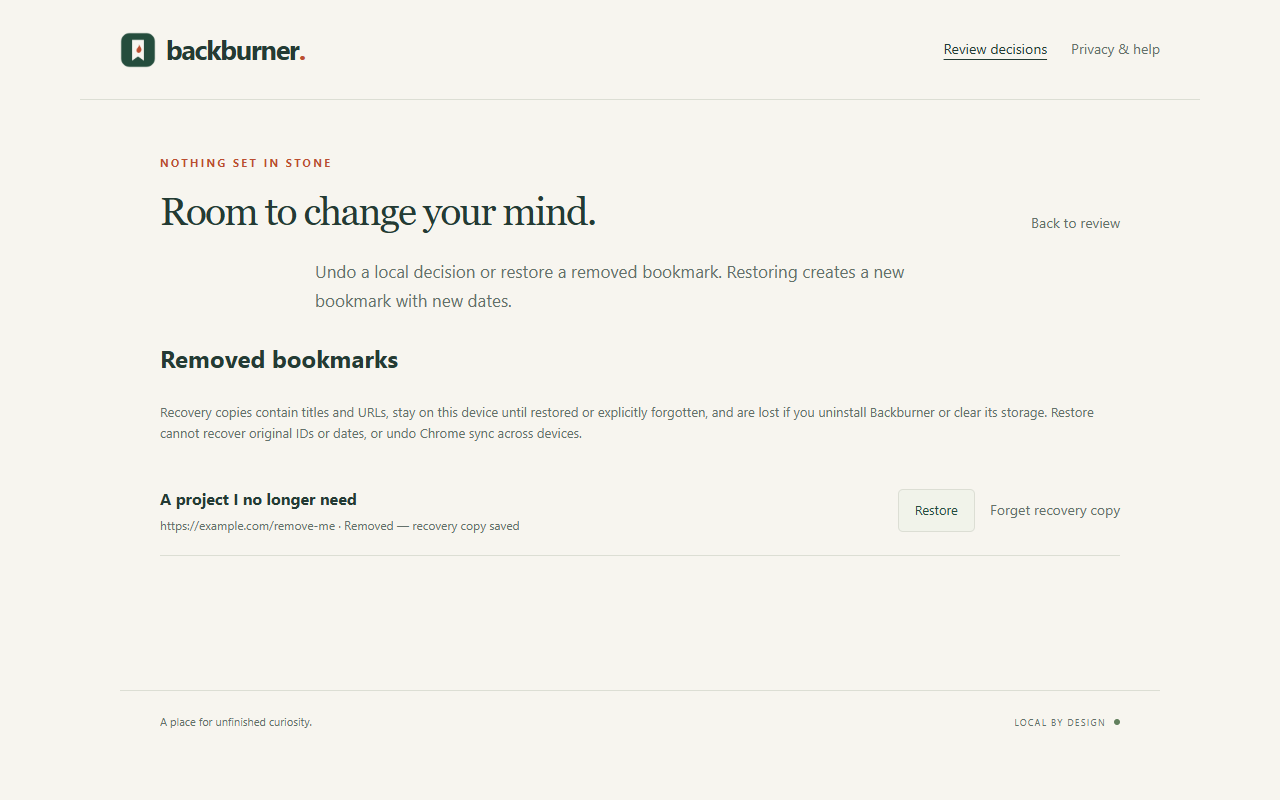
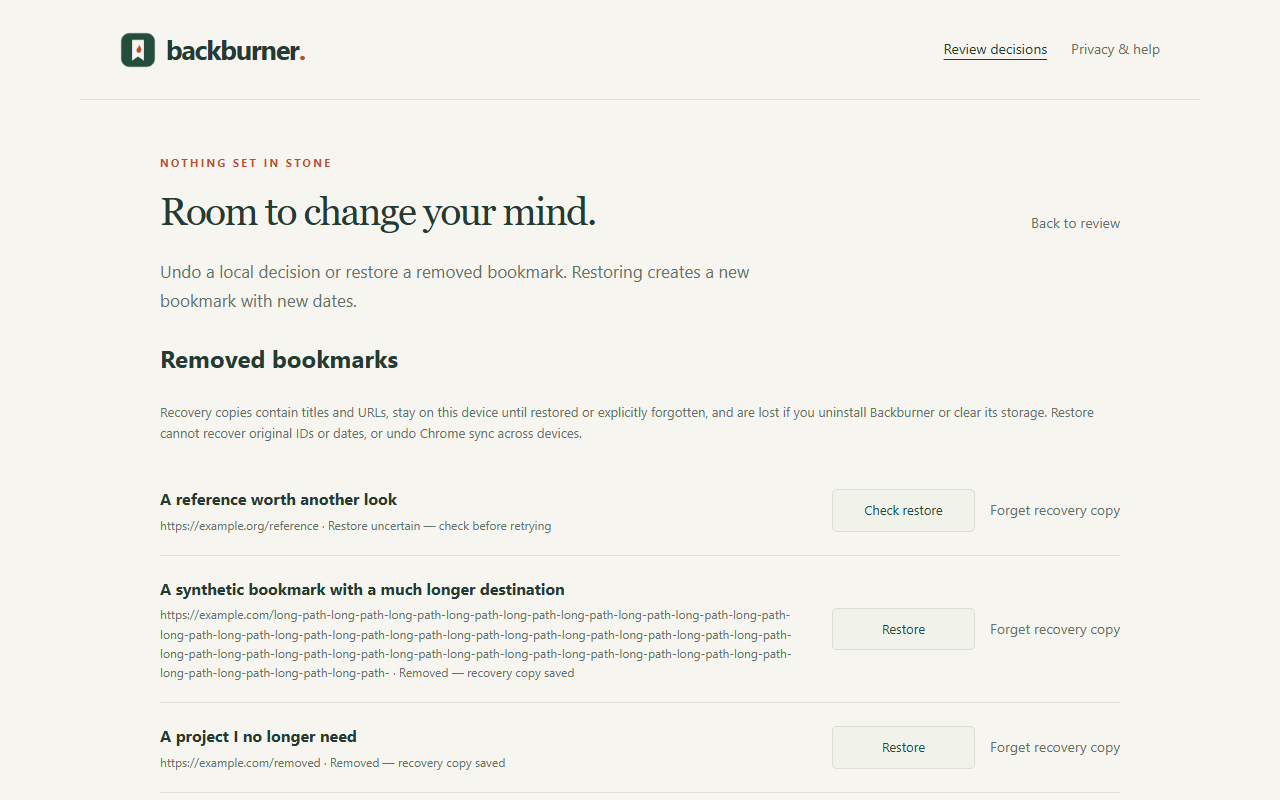
Align decisions copy and recovery actions
Keep recovery buttons in consistent columns and together below details on narrow screens. Align the introduction with the heading; preserve all action semantics.

diff --git a/review.css b/review.css
@@ -6,4 +6,6 @@
 .folder-context{display:flex;gap:6px;margin-top:10px;font-size:12px;color:var(--muted)}.folder-context>span{flex-shrink:0}.folder-path{display:flex;min-width:0;margin:0}.folder-path span{unicode-bidi:plaintext}.folder-path #folder-ancestors{min-width:1.5em;overflow:hidden;text-overflow:ellipsis;white-space:nowrap}.folder-path #folder-leaf{flex-shrink:0;max-width:calc(100% - 1.5em);overflow-wrap:anywhere;white-space:pre-wrap}.folder-path #folder-ancestors[hidden]+#folder-leaf{max-width:100%}
 .reminder-handoff,.reminder-settings{border:1px solid var(--line);border-radius:8px;padding:20px;margin-bottom:28px;overflow-wrap:anywhere}.reminder-handoff h2{margin:0 0 10px}.reminder-handoff button,.reminder-settings button{margin:8px 16px 8px 0;white-space:normal}.reminder-handoff p,.reminder-settings p{font-size:13px}
 
-dialog{max-width:560px;width:calc(100% - 40px);border:1px solid var(--line);border-radius:12px;background:var(--paper);color:var(--ink);padding:28px}dialog::backdrop{background:#10251c88}#confirm-detail{white-space:pre-wrap;overflow-wrap:anywhere;font-size:14px}.dialog-actions{display:flex;justify-content:flex-end;gap:12px;margin-top:24px}.dialog-actions button{padding:10px 18px;border:1px solid var(--line);border-radius:5px;background:#fff;color:var(--ink)}#confirm-yes{background:var(--green);color:white}#restore-folder{display:block;width:100%;padding:10px;margin-top:8px}.recovery-actions{display:flex;gap:15px;flex-wrap:wrap}.decision-row h3{margin:0 0 4px;font-size:16px}.summary-counts{flex-wrap:wrap}@media(max-width:650px){.recovery-actions{flex-direction:column}.decision-row{align-items:flex-start}}
+dialog{max-width:560px;width:calc(100% - 40px);border:1px solid var(--line);border-radius:12px;background:var(--paper);color:var(--ink);padding:28px}dialog::backdrop{background:#10251c88}#confirm-detail{white-space:pre-wrap;overflow-wrap:anywhere;font-size:14px}.dialog-actions{display:flex;justify-content:flex-end;gap:12px;margin-top:24px}.dialog-actions button{padding:10px 18px;border:1px solid var(--line);border-radius:5px;background:#fff;color:var(--ink)}#confirm-yes{background:var(--green);color:white}#restore-folder{display:block;width:100%;padding:10px;margin-top:8px}.recovery-actions{display:grid;grid-template-columns:minmax(0,1fr) max-content;gap:15px;align-items:center;width:100%;max-width:18rem}.decision-row h3{margin:0 0 4px;font-size:16px}.summary-counts{flex-wrap:wrap}
+#decisions>.lede{margin-left:0;margin-right:0}#recovery-list .decision-row{display:grid;grid-template-columns:minmax(0,1fr) 18rem}
+@media(max-width:650px){#recovery-list .decision-row{grid-template-columns:minmax(0,1fr)}.decision-row{align-items:flex-start}}

diff --git a/release/reviewer-instructions.md b/release/reviewer-instructions.md
@@ -1,6 +1,13 @@
-# Release verification — 0.1.4
+# Release verification — 0.1.5
 
 Use synthetic bookmarks in a clean profile. No account needed.
+
+On Review decisions, verify the introduction shares the title's left edge.
+Use recovery rows with different title/URL lengths and Restore/Check restore
+labels. Both actions must share stable columns and stay vertically centered
+together; narrow layouts place the pair beneath details without splitting it.
+Check desktop, both sides of the 650px breakpoint and 390px, including unclipped
+labels and no horizontal overflow. These are layout changes only.
 
 Verify current folder context below the review URL using nested native folders.
 Check direct root leaves, untitled/missing/cyclic ancestry with controlled fixtures,

diff --git a/README.md b/README.md
@@ -6,7 +6,7 @@ Backburner brings existing Chrome bookmarks into a small review. Open something 
 
 ![Backburner review](release/screenshot-review.png)
 
-## Status: developer preview 0.1.4
+## Status: developer preview 0.1.5
 
 This is a working extension candidate, not a Chrome Web Store release. Public launch still needs founder session-size calibration, a newcomer walkthrough, and store submission/review. The first preview session learns its size when you finish; that is not yet the final public default.
 
